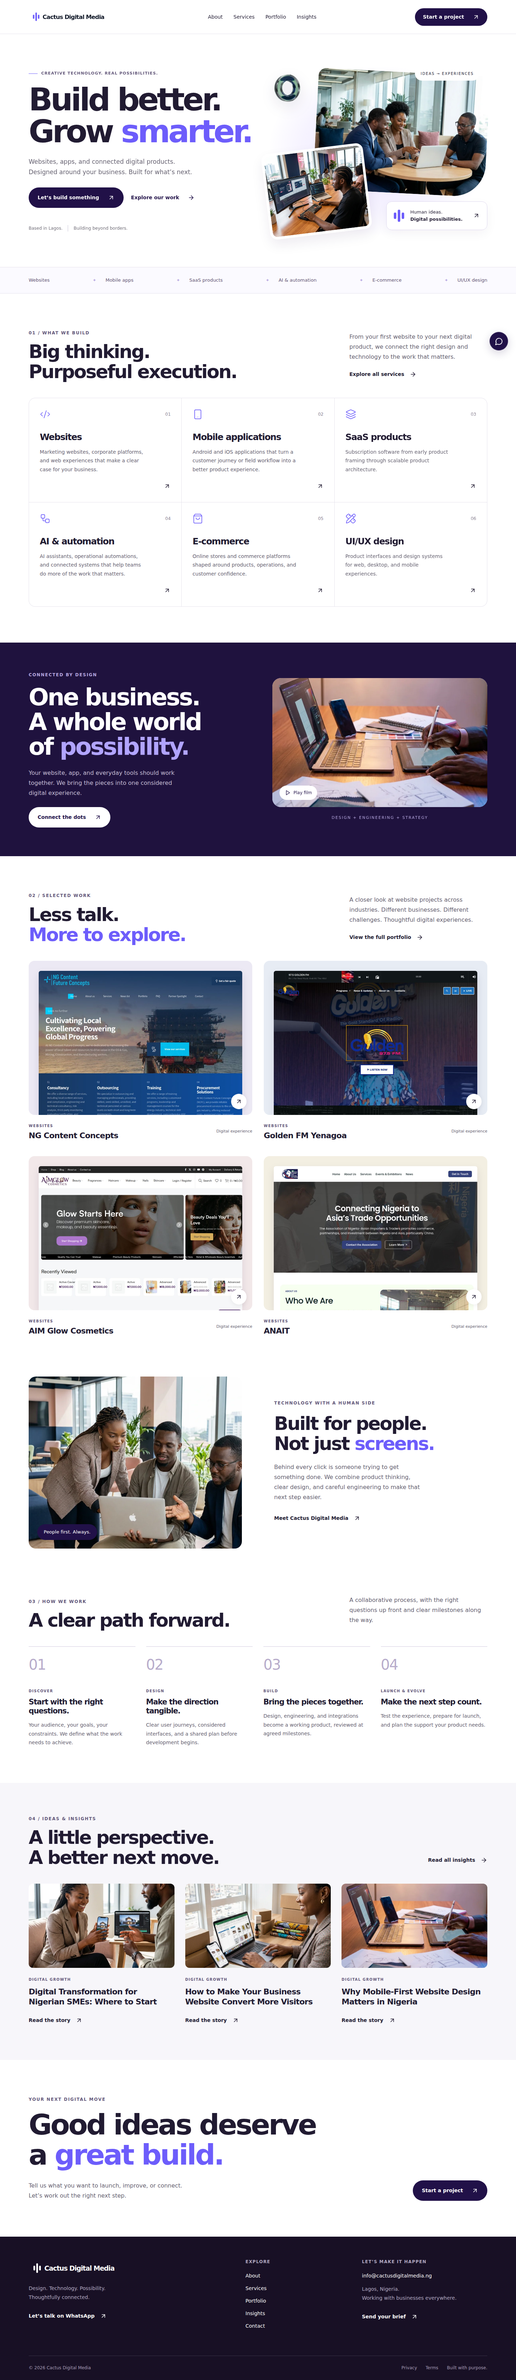
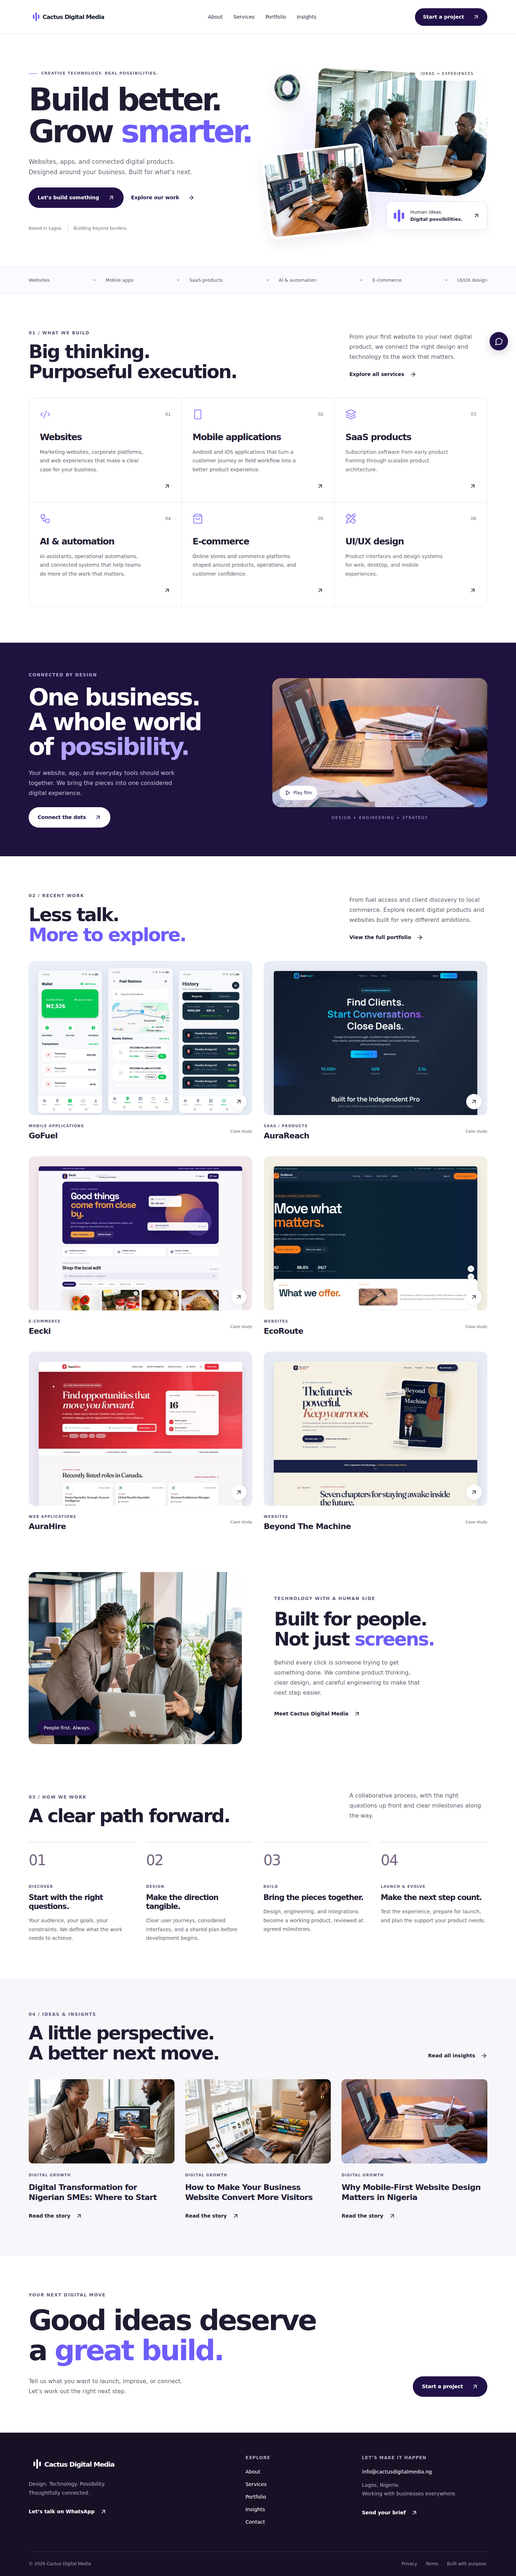
perf: optimize media and article loading; verify recent portfolio

diff --git a/scripts/prerender.tsx b/scripts/prerender.tsx
@@ -1,3 +1,5 @@
+import postContent from "../src/data/posts.json" with { type: "json" };
+import { ArticleContext } from "../src/lib/article";
 import { readFileSync, writeFileSync, mkdirSync } from "node:fs";
 import { renderToString } from "react-dom/server";
 import { StaticRouter } from "react-router-dom";
@@ -12,9 +14,12 @@ const escape = (s: string) =>
     .replaceAll(">", "&gt;");
 for (const route of [...allRoutes, "/404"]) {
   const m = metadata(route);
+  const article = postContent.find((p) => route === `/blog/${p.slug}`) || null;
   const markup = renderToString(
     <StaticRouter location={route}>
-      <App />
+      <ArticleContext.Provider value={article}>
+        <App />
+      </ArticleContext.Provider>
     </StaticRouter>,
   );
   let html = template
@@ -38,6 +43,10 @@ for (const route of [...allRoutes, "/404"]) {
       '<script type="application/ld+json" id="structured-data">{}</script>',
       `<script type="application/ld+json" id="structured-data">${JSON.stringify(structuredData(route)).replaceAll("<", "\\u003c")}</script>`,
     );
+  html = html.replace(
+    "</body>",
+    `<script type="application/json" id="article-data">${JSON.stringify(article).replaceAll("<", "\\u003c")}</script></body>`,
+  );
   if (route === "/404")
     html = html.replace('content="index,follow"', 'content="noindex"');
   const dir = route === "/" ? "dist" : `dist${route}`;
@@ -50,3 +59,7 @@ writeFileSync(
   `<?xml version="1.0" encoding="UTF-8"?><urlset xmlns="http://www.sitemaps.org/schemas/sitemap/0.9">${allRoutes.map((r) => `<url><loc>https://cactusdigitalmedia.ng${r}</loc></url>`).join("")}</urlset>`,
 );
 console.log(`Prerendered ${allRoutes.length} routes and a 404 page.`);
+
+mkdirSync("dist/content", { recursive: true });
+for (const post of postContent)
+  writeFileSync(`dist/content/${post.slug}.json`, JSON.stringify(post));

diff --git a/tests/e2e/site.spec.ts b/tests/e2e/site.spec.ts
@@ -3,11 +3,19 @@ import { allRoutes } from "../../src/lib/metadata";
 test("all pages render, image assets load, and route metadata matches", async ({
   page,
 }) => {
+  test.setTimeout(90000);
   const errors: string[] = [];
   page.on("pageerror", (e) => errors.push(e.message));
   for (const route of allRoutes) {
     await page.goto(route);
     await expect(page.locator("h1")).toBeVisible();
+    await page.locator("img").evaluateAll(async (nodes) => {
+      const images = nodes.filter(
+        (el): el is HTMLImageElement => el instanceof HTMLImageElement,
+      );
+      images.forEach((img) => (img.loading = "eager"));
+      await Promise.all(images.map((img) => img.decode()));
+    });
     await expect(page.locator('link[rel="canonical"]')).toHaveAttribute(
       "href",
       `https://cactusdigitalmedia.ng${route}`,
@@ -156,4 +164,20 @@ test("unknown routes display a noindex 404 and reduced motion disables decorativ
       .locator(".hero-ring")
       .evaluate((el) => getComputedStyle(el).animationName),
   ).toBe("none");
+});
+
+test("recent work galleries and article navigation load real content", async ({
+  page,
+}) => {
+  await page.goto("/");
+  await expect(page.locator(".project-card")).toHaveCount(6);
+  await page.locator(".project-picture").first().click();
+  await expect(page.locator("h1")).toHaveText("GoFuel");
+  await expect(page.locator(".app-gallery img")).toHaveCount(5);
+  await page.goto("/blog");
+  await page.locator(".article-list a").first().click();
+  await expect(page.locator(".article-body h2").first()).toBeVisible();
+  await expect(page.locator(".article-body")).not.toContainText(
+    "Loading article",
+  );
 });

diff --git a/src/components/Shared.tsx b/src/components/Shared.tsx
@@ -1,31 +1,11 @@
-import { useEffect, useRef, useState, type ReactNode } from "react";
+import { useRef, useState, type ReactNode } from "react";
 import { Link } from "react-router-dom";
 import { ArrowUpRight, ArrowRight, Pause, Play } from "lucide-react";
-import { motion, useReducedMotion } from "framer-motion";
 export function Arrow({ diagonal = false }: { diagonal?: boolean }) {
   return diagonal ? (
     <ArrowUpRight size={19} aria-hidden="true" />
   ) : (
     <ArrowRight size={19} aria-hidden="true" />
-  );
-}
-export function Reveal({
-  children,
-  className = "",
-}: {
-  children: ReactNode;
-  className?: string;
-}) {
-  const reduced = useReducedMotion();
-  return (
-    <motion.div
-      className={className}
-      initial={false}
-      whileInView={reduced ? undefined : { opacity: 1, y: 0 }}
-      viewport={{ once: true }}
-    >
-      {children}
-    </motion.div>
   );
 }
 export function SectionTitle({
@@ -87,22 +67,6 @@ export function Cinematic({
 }) {
   const ref = useRef<HTMLVideoElement>(null);
   const [active, setActive] = useState(false);
-  const reduced = useReducedMotion();
-  useEffect(() => {
-    const el = ref.current;
-    if (!el || reduced) return;
-    const io = new IntersectionObserver(
-      ([entry]) => {
-        if (entry.isIntersecting) {
-          el.src = src;
-          io.disconnect();
-        }
-      },
-      { rootMargin: "100px" },
-    );
-    io.observe(el);
-    return () => io.disconnect();
-  }, [src, reduced]);
   return (
     <div className={`cinematic ${className}`}>
       <video

diff --git a/src/lib/article.tsx b/src/lib/article.tsx
@@ -1,0 +1,33 @@
+import { createContext, useContext, useEffect, useState } from "react";
+export interface Article {
+  slug: string;
+  title: string;
+  excerpt: string;
+  category: string;
+  date: string;
+  blocks: { type: string; text: string }[];
+}
+export const ArticleContext = createContext<Article | null>(null);
+export function useArticle(slug: string | undefined) {
+  const initial = useContext(ArticleContext);
+  const [loaded, setLoaded] = useState<Article | null>(initial);
+  const [failed, setFailed] = useState(false);
+  useEffect(() => {
+    if (!slug || loaded?.slug === slug) return;
+    const controller = new AbortController();
+    setFailed(false);
+    fetch(`/content/${encodeURIComponent(slug)}.json`, {
+      signal: controller.signal,
+    })
+      .then((r) => {
+        if (!r.ok) throw new Error("Article unavailable");
+        return r.json();
+      })
+      .then((a: Article) => setLoaded(a))
+      .catch((e) => {
+        if (e.name !== "AbortError") setFailed(true);
+      });
+    return () => controller.abort();
+  }, [slug, loaded?.slug]);
+  return { article: loaded?.slug === slug ? loaded : null, failed };
+}

diff --git a/src/pages/Pages.tsx b/src/pages/Pages.tsx
@@ -1,3 +1,4 @@
+import { useArticle } from "../lib/article";
 import { useState } from "react";
 import { Link, useParams, useSearchParams } from "react-router-dom";
 import { services, projects, posts, process, brand } from "../data/site";
@@ -369,6 +370,7 @@ export function Blog() {
 }
 export function BlogPost() {
   const { slug } = useParams();
+  const { article, failed } = useArticle(slug);
   const p = posts.find((x) => x.slug === slug);
   if (!p) return <NotFound />;
   return (
@@ -383,7 +385,14 @@ export function BlogPost() {
           Cactus Digital Media · <time dateTime={p.date}>25 August 2026</time> ·
           Updated for Cactus, September 2026
         </p>
-        {p.blocks.map((b, i) =>
+        {!article && (
+          <p role="status">
+            {failed
+              ? "This article could not be loaded. Please refresh the page."
+              : "Loading article…"}
+          </p>
+        )}
+        {article?.blocks.map((b, i) =>
           b.type === "h2" ? (
             <h2 key={i}>{b.text}</h2>
           ) : b.type === "h3" ? (

diff --git a/src/components/ProjectCard.tsx b/src/components/ProjectCard.tsx
@@ -13,7 +13,25 @@ export default function ProjectCard({
         className={`project-picture ${project.category === "Mobile Applications" ? "mobile-project" : ""}`}
         aria-label={`View ${project.title}`}
       >
-        {project.image ? (
+        {project.category === "Mobile Applications" && project.gallery ? (
+          <div className="mobile-preview">
+            {["wallet-screen", "fuel-stations-screen", "history-screen"].map(
+              (name) => {
+                const img = project.gallery?.find((i) => i.src.includes(name));
+                return img ? (
+                  <img
+                    key={name}
+                    src={img.src}
+                    alt={img.alt}
+                    loading="lazy"
+                    width={img.width}
+                    height={img.height}
+                  />
+                ) : null;
+              },
+            )}
+          </div>
+        ) : project.image ? (
           <img
             src={project.image}
             alt={`${project.title} project design`}

diff --git a/src/styles/global.css b/src/styles/global.css
@@ -1876,3 +1876,39 @@ footer p {
     padding: 7px;
   }
 }
+
+.mobile-preview {
+  height: 100%;
+  width: 100%;
+  display: grid;
+  grid-template-columns: repeat(3, minmax(0, 1fr));
+  gap: 15px;
+  align-items: center;
+}
+.mobile-preview img {
+  width: 100%;
+  height: auto;
+  max-height: 100%;
+  object-fit: contain;
+  border-radius: 12px;
+  border: 1px solid #dddce8;
+  box-shadow: 0 12px 30px #21114812;
+}
+.mobile-preview img:nth-child(2) {
+  transform: translateY(-6px);
+}
+.mobile-project:hover .mobile-preview img {
+  transform: none;
+}
+.mobile-project {
+  padding: 25px;
+  background: #e8eff8 !important;
+}
+@media (max-width: 600px) {
+  .mobile-preview {
+    gap: 10px;
+  }
+  .mobile-project {
+    padding: 20px;
+  }
+}

diff --git a/src/main.tsx b/src/main.tsx
@@ -1,10 +1,16 @@
+import { ArticleContext } from "./lib/article";
 import { createRoot, hydrateRoot } from "react-dom/client";
 import { BrowserRouter } from "react-router-dom";
 import App from "./App";
 import "./styles/global.css";
+const initialArticle = JSON.parse(
+  document.getElementById("article-data")?.textContent || "null",
+);
 const element = (
   <BrowserRouter>
-    <App />
+    <ArticleContext.Provider value={initialArticle}>
+      <App />
+    </ArticleContext.Provider>
   </BrowserRouter>
 );
 const root = document.getElementById("root")!;

diff --git a/src/data/site.ts b/src/data/site.ts
@@ -1,6 +1,6 @@
 import serviceData from "./services.json" with { type: "json" };
 import projectData from "./projects.json" with { type: "json" };
-import postData from "./posts.json" with { type: "json" };
+import postData from "./posts-summary.json" with { type: "json" };
 export const services = serviceData;
 export interface Project {
   slug: string;

diff --git a/src/pages/Home.tsx b/src/pages/Home.tsx
@@ -70,7 +70,7 @@ export default function Home() {
           />
           <img
             className="hero-ring"
-            src="/images/ring.png"
+            src="/images/ring.webp"
             width="500"
             height="500"
             alt=""

diff --git a/CHANGELOG.md b/CHANGELOG.md
@@ -7,3 +7,8 @@
 - Verified initial browser journeys; fixed preview route hydration and small-screen title overflow.
 - Updated SMTP dependency; production audit reports zero known vulnerabilities.
 - New portfolio archive and GoFuel media integration queued per owner instruction.
+
+## Recent portfolio integration
+- Added 10 owner-supplied project screenshots and GoFuel app screenshots from the official product site.
+- Built recent-project categories, full design galleries and six featured homepage case studies.
+- Retained legacy projects under archive/all-work filters.
